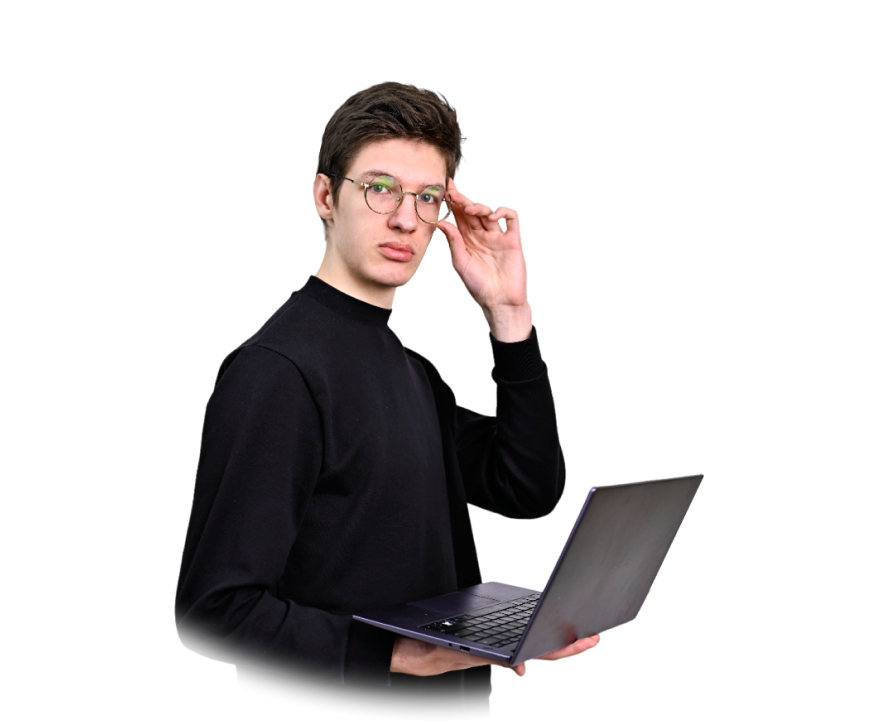
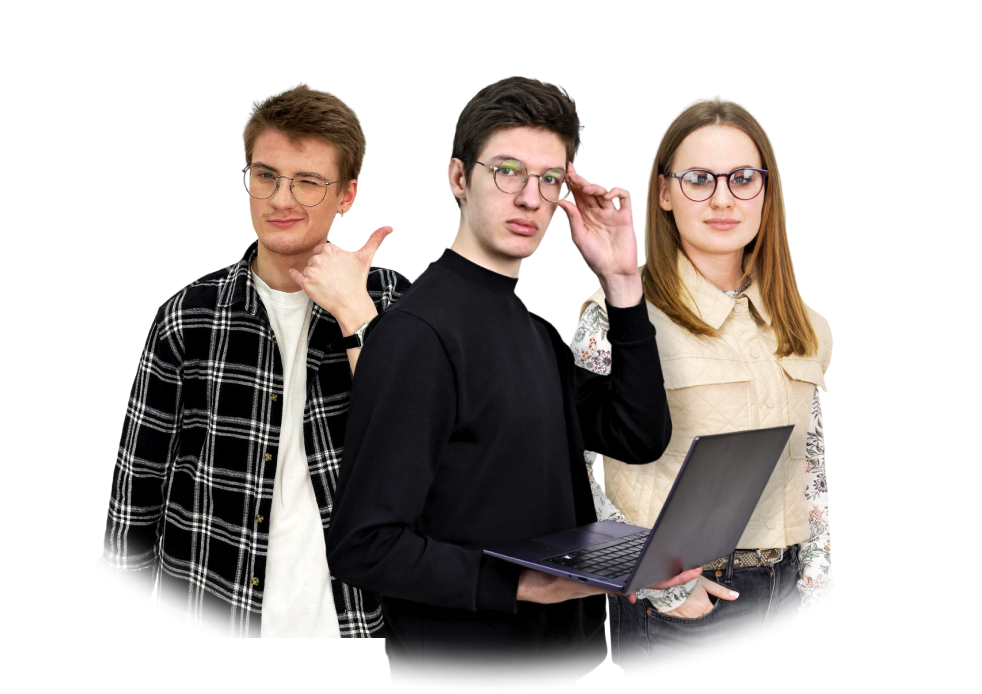
some fix

diff --git a/src/scss/frontend--style.scss b/src/scss/frontend--style.scss
@@ -214,12 +214,12 @@ body {
 		url("../img/started-bg.jpg") no-repeat center / cover,
 		linear-gradient(113.26deg, rgba(227, 30, 37, 0.6) 0%, rgba(227, 30, 36, 0) 65.03%),
 		#482F32;
-	color      : #fff;
-	overflow   : hidden;
-	height     : 968px;
-	max-height : 100vh;
-	padding-top: 174px;
-	position   : relative;
+	color         : #fff;
+	overflow      : hidden;
+	height        : 968px;
+	// max-height : 100vh;
+	padding-top   : 174px;
+	position      : relative;
 
 	@media(max-width:$lg) {
 		padding-top   : 220px;
@@ -230,6 +230,7 @@ body {
 
 	@media(max-width:$md) {
 		padding-bottom: 20px;
+		padding-top   : 40px;
 	}
 
 	&-inner {
@@ -281,6 +282,10 @@ body {
 		@media(max-width:$md) {
 			font-size    : 42px;
 			margin-bottom: 12px;
+		}
+
+		@media(max-width:$sm) {
+			font-size: 32px;
 		}
 
 		img {
@@ -388,7 +393,8 @@ body {
 		}
 
 		@media(max-width:$md) {
-			width: 100%;
+			width        : 100%;
+			// margin-top: -100px;
 		}
 	}
 
@@ -402,7 +408,7 @@ body {
 
 		@media(max-width:$md) {
 			order : -1;
-			height: 180px;
+			height: auto;
 		}
 
 		&:before {
@@ -414,6 +420,14 @@ body {
 			top       : calc(50% - 201px);
 			background: url("../img/started-circle.png") no-repeat center / contain;
 			transition: .75s .25s;
+
+
+			@media(max-width:$md) {
+				width : 320px;
+				height: 320px;
+				left  : calc(50% - 160px);
+				top   : calc(50% - 160px);
+			}
 		}
 
 		&[data-scroll]:not(.is-inview):before {
@@ -424,21 +438,33 @@ body {
 		img {
 			position  : absolute;
 			display   : block;
-			height    : 725px;
-			width     : 874px;
+			height    : 694px;
+			width     : 982px;
 			max-width : none;
 			top       : calc(50% - 320px);
-			left      : calc(50% - 360px);
+			left      : calc(50% - 460px);
 			transition: .5s;
 
 			@media(max-width:$lg) {
-				top : calc(50% - 725px / 2);
-				left: calc(50% - 874px / 2 + 80px);
+				top  : calc(50% - 725px / 2);
+				left : calc(50% - 874px / 2 + 80px);
+				width: 770px;
+			}
+
+			@media(max-width:869px) {
+				top  : calc(50% - 725px / 2);
+				left : calc(50% - 874px / 2 + 50px);
+				width: 740px;
 			}
 
 			@media(max-width:$md) {
-				top : calc(50% - 725px / 2 + 50px);
-				left: calc(50% - 874px / 2 + 60px);
+				position   : relative;
+				width      : calc(100% + 200px);
+				height     : auto;
+				top        : calc(50% - 694px / 2);
+				left       : auto;
+				top        : auto;
+				margin-left: -100px;
 			}
 		}
 

diff --git a/src/js/index.js b/src/js/index.js
@@ -40,7 +40,7 @@ function loadHandler() {
 	sliderSwiper.init()
 
 	const scroll = new LocomotiveScroll({
-		offset: [100, 0],
+		offset: [50, 0],
 		repeat:true
 	});
 

diff --git a/src/scss/style.scss b/src/scss/style.scss
@@ -404,6 +404,8 @@
 }
 
 .partners {
+    overflow: hidden;
+
     padding: {
         top   : 80px;
         bottom: 80px;
